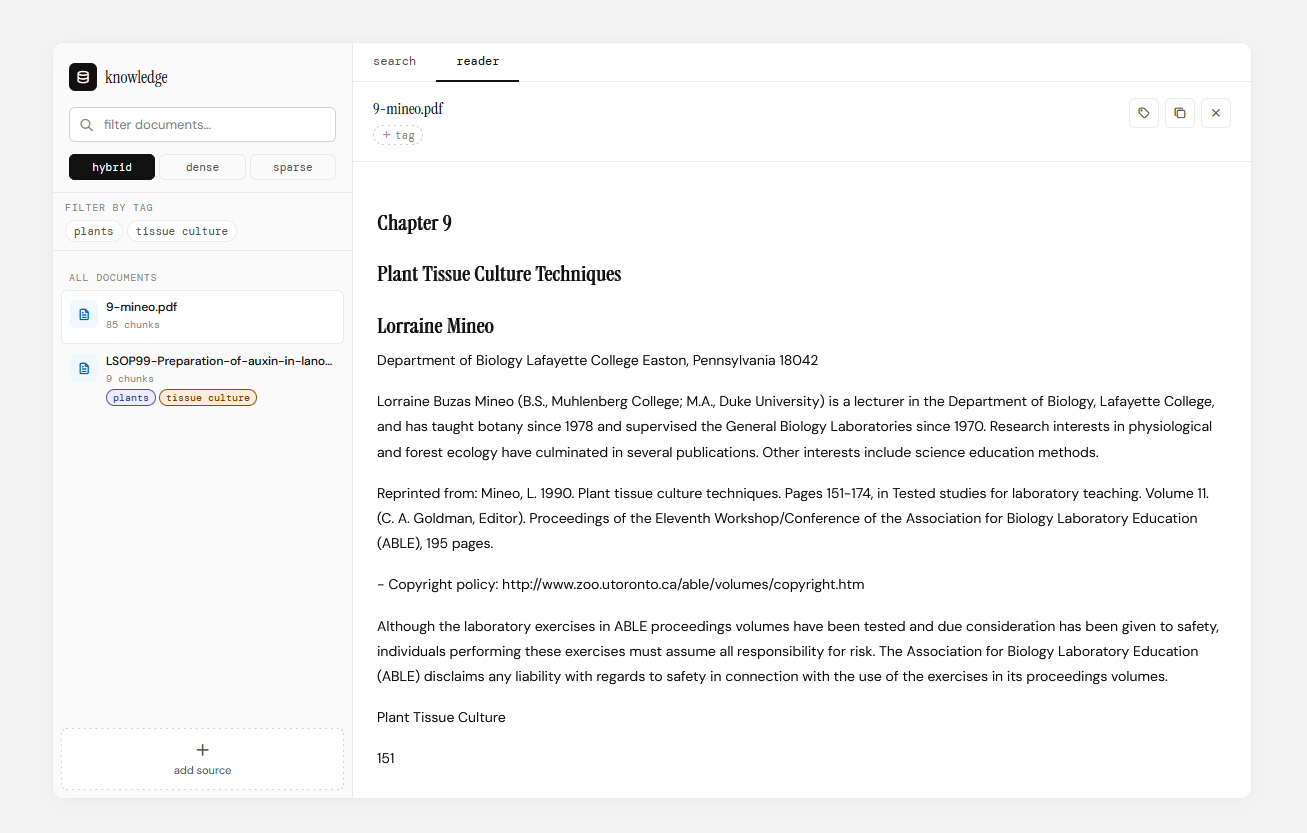
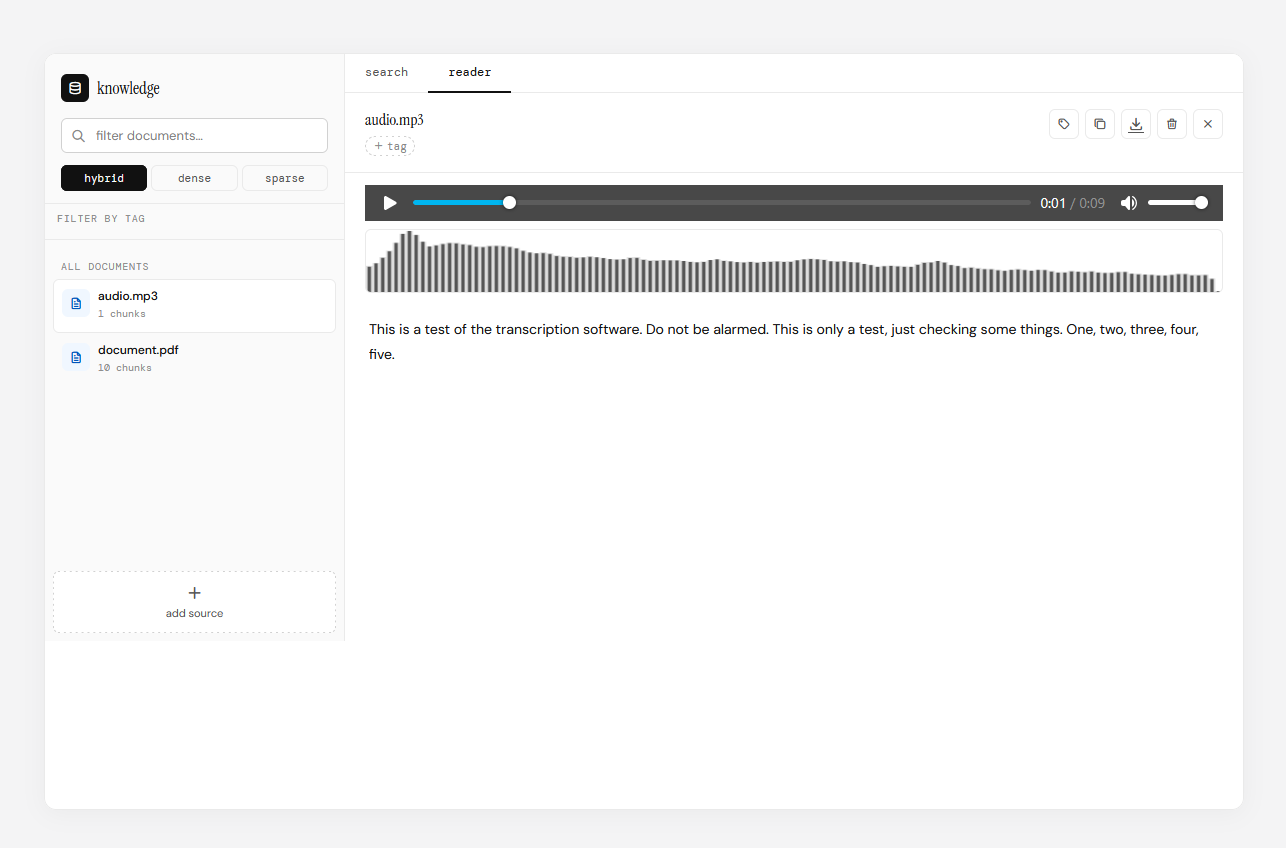
Update docs

diff --git a/docs/ARCHITECTURE.md b/docs/ARCHITECTURE.md
@@ -30,6 +30,7 @@ flowchart LR
 | -------- | ------------------------------------------------------------------- | ------------------------------------------------- |
 | Qdrant   | All vectors; **source of truth** for retrieval.                     | Required for ingest/search.                       |
 | MongoDB  | Document metadata + full extracted text/transcript for the UI.      | **Non-critical** — writes are suppressed on error; search still works, UI metadata degrades. |
+| Uploads  | Original files (`data/uploads/`) for download and media playback.   | **Non-critical** — 404 on missing file; search/ingest unaffected.                |
 
 MongoDB writes from ingestors are wrapped in `contextlib.suppress(Exception)`, so a Mongo outage never breaks ingestion or search. The MongoDB document `_id` is the filename/source id; records follow the `DocumentRecord` schema (filename, source_type, tags, chunk_count, ingested_at, markdown_content, source_url, content_hash).
 
@@ -65,10 +66,10 @@ Qdrant cannot add a named vector to an existing collection. `engine.init_db()` t
 
 `engine.search()` dispatches on `SearchQuery.mode`:
 
-- `dense` / `sparse` — single-vector query via the classic `search()` API.
+- `dense` / `sparse` — single-vector query via `query_points()` with `query` + `using`.
 - `hybrid` (default) — `query_points()` with a `FusionQuery(RRF)` prefetching both `dense` and `sparse`. RRF fusion requires **Qdrant ≥ 1.10** (Compose pins `v1.18.0`).
 
-Optional `tags` are translated into a Qdrant `Filter` (must-match) applied to all modes.
+Optional `tags` are translated into a Qdrant `Filter` (must-match). For `dense`/`sparse` the filter is passed as `query_filter`; for `hybrid` it is placed **inside** each `Prefetch.filter` so it applies before RRF fusion.
 
 ## Ingestor plugin system
 
@@ -99,6 +100,17 @@ classDiagram
 
 Each ingestor deletes prior points for the same `source` before upserting (idempotent re-ingest), then writes a `DocumentRecord` to MongoDB.
 
+Uploaded files (PDF, audio) are persisted to `data/uploads/` during ingestion and cleaned up on failure or empty results. URL sources have no local file.
+
+## Source management
+
+`engine` exposes two helpers beyond `ingest()` and `search()`:
+
+- `delete_document(filename)` — removes every Qdrant point matching `source == filename`. Called by the `DELETE /api/document/{filename}` endpoint, which also removes the Mongo record and the local file.
+- `get_spectrogram(filename)` — reads chunk 0's `spectrogram` vector from Qdrant (only fetched for audio documents). Returns `None` if absent or zero-padded.
+
+The API layer guards all file-access endpoints (`GET /api/file/{filename}`, `DELETE /api/document/{filename}`) with `_safe_upload_path()`, which uses `pathlib.Path.is_relative_to()` to reject path traversal and absolute paths before any filesystem operation.
+
 ## Frontend
 
 A dependency-free, native ES-module plugin system (one Tabler-icons CDN stylesheet; no bundler).
@@ -113,7 +125,7 @@ A dependency-free, native ES-module plugin system (one Tabler-icons CDN styleshe
 | -------------- | ------- | --------------------------------------------------- |
 | `library`      | sidebar | Document list, tag/mode filters, "add source".      |
 | `search`       | panel   | Query input, mode toggle, results.                  |
-| `reader`       | panel   | Full document/transcript view.                      |
+| `reader`       | panel   | Document/transcript view, audio playback, spectrogram sparkline, download, delete. |
 | `ingest-pdf`   | ingest  | PDF upload tab in the "add source" modal.           |
 | `ingest-url`   | ingest  | URL ingest tab.                                     |
 | `ingest-audio` | ingest  | Audio upload tab (with transcription loading state).|
@@ -122,4 +134,4 @@ Ingest plugins (slot `ingest`) are rendered as tabs inside a single shared "add 
 
 ## Configuration
 
-Environment variables (defaults in `config.py`): `QDRANT_HOST` (`localhost`), `MONGO_URI` (`mongodb://localhost:27017`), `MONGO_DB` (`rag`). Collection name: `local_agent_knowledge`. Ports: API `8000`, Qdrant REST `6333`, MongoDB `27017`.
+Environment variables (defaults in `config.py`): `QDRANT_HOST` (`localhost`), `MONGO_URI` (`mongodb://localhost:27017`), `MONGO_DB` (`rag`), `UPLOAD_DIR` (`<repo>/data/uploads`). Collection name: `local_agent_knowledge`. Ports: API `8000`, Qdrant REST `6333`, MongoDB `27017`.

diff --git a/docs/API_REFERENCE.md b/docs/API_REFERENCE.md
@@ -72,9 +72,16 @@ curl http://localhost:8000/api/documents
 ---
 
 ### `GET /api/document/{filename}`
-Return the full extracted text / transcript for a document.
+Return the full extracted text / transcript and metadata for a document.
 
-- **`200`** — `{ "content": "<markdown or transcript text>" }`
+**Response `200`**
+| Field          | Type                | Notes                                              |
+| -------------- | ------------------- | -------------------------------------------------- |
+| `content`      | `str`               | Markdown or transcript text.                       |
+| `source_type`  | `str`               | `pdf` \| `url` \| `audio`.                         |
+| `source_url`   | `str \| null`       | Original URL (URL sources only).                   |
+| `spectrogram`  | `list[float] \| null` | 128-dim spectrogram vector (audio only).        |
+
 - **`404`** — `{ "detail": "Document not found" }`
 
 ```bash
@@ -100,6 +107,35 @@ Overwrite the tags on every chunk of a document (updates Qdrant payloads and Mon
 curl -X PATCH http://localhost:8000/api/tags/paper.pdf \
   -H "Content-Type: application/json" \
   -d '{"tags":["research","ml"]}'
+```
+
+---
+
+### `GET /api/file/{filename}`
+Serve a persisted upload file (PDF, audio, etc.) for download or browser playback.
+
+- **`200`** — the file (content-type derived from extension, e.g. `audio/mpeg` for `.mp3`).
+- **`400`** — `{ "detail": "Invalid filename" }` (path traversal or absolute path rejected).
+- **`404`** — `{ "detail": "File not found" }` (file was never persisted or was deleted).
+
+> **Security:** the endpoint validates that the resolved path is strictly inside `data/uploads/` using `pathlib.Path.is_relative_to()`. Requests containing `../` or absolute paths receive a 400 and never touch the filesystem.
+
+```bash
+curl -O http://localhost:8000/api/file/meeting.mp3
+```
+
+---
+
+### `DELETE /api/document/{filename}`
+Purge a document from all stores: Qdrant vectors, MongoDB metadata, and the local upload file.
+
+- **`200`** — `{ "deleted": "<filename>" }`
+- **`400`** — `{ "detail": "Invalid filename" }` (path traversal rejected).
+
+> Works for URL-sourced documents too (no local file to delete — the `unlink` is a no-op).
+
+```bash
+curl -X DELETE http://localhost:8000/api/document/paper.pdf
 ```
 
 ---

diff --git a/README.md b/README.md
@@ -2,7 +2,7 @@
 
 ![screenshot](/docs/assets/screenshot.png)
 
-A fully local, Apple-Silicon-optimized Retrieval-Augmented Generation (RAG) server. Ingest **PDFs, web pages, and audio**, then run **hybrid vector search** over the results — all on your own machine, with a built-in modular web UI.
+A fully local, Apple-Silicon-optimized Retrieval-Augmented Generation (RAG) server. Ingest **PDFs, web pages, and audio**, then run **hybrid vector search** over the results — all on your own machine, with a built-in modular web UI. Download or delete sources, play audio natively, and view spectrogram sparklines — all with strict path-traversal protection.
 
 - **Qdrant** — hybrid vector store (dense + sparse + spectrogram vectors), the source of truth for search.
 - **MongoDB** — metadata and full document/transcript content backing the library and reader UI.
@@ -59,6 +59,7 @@ Configuration is via environment variables (sensible localhost defaults):
 | `QDRANT_HOST` | `localhost`                 | Qdrant host (REST on port `6333`).   |
 | `MONGO_URI`   | `mongodb://localhost:27017` | MongoDB connection string.           |
 | `MONGO_DB`    | `rag`                       | MongoDB database name.               |
+| `UPLOAD_DIR`  | `<repo>/data/uploads`       | Directory for persisted upload files. |
 
 | Service     | Port    |
 | ----------- | ------- |
@@ -107,6 +108,9 @@ Then restart the server; it recreates the collection with all three vectors. Doc
 
 ### MongoDB is optional but powers the UI
 If MongoDB is down, the server still starts and vector search still works, but metadata features degrade: the document list (`GET /api/documents`), the reader (`GET /api/document/{filename}`), and tag persistence rely on MongoDB.
+
+### Pre-existing documents may lack downloadable files
+Documents ingested before the upload-persistence feature do not have a file in `data/uploads/`, so `GET /api/file/{filename}` and audio playback will return 404 for them. Deleting them still works (the file `unlink` is a no-op). To enable download/playback, re-ingest the source file.
 
 ## Running as a macOS background service (launchd)
 
